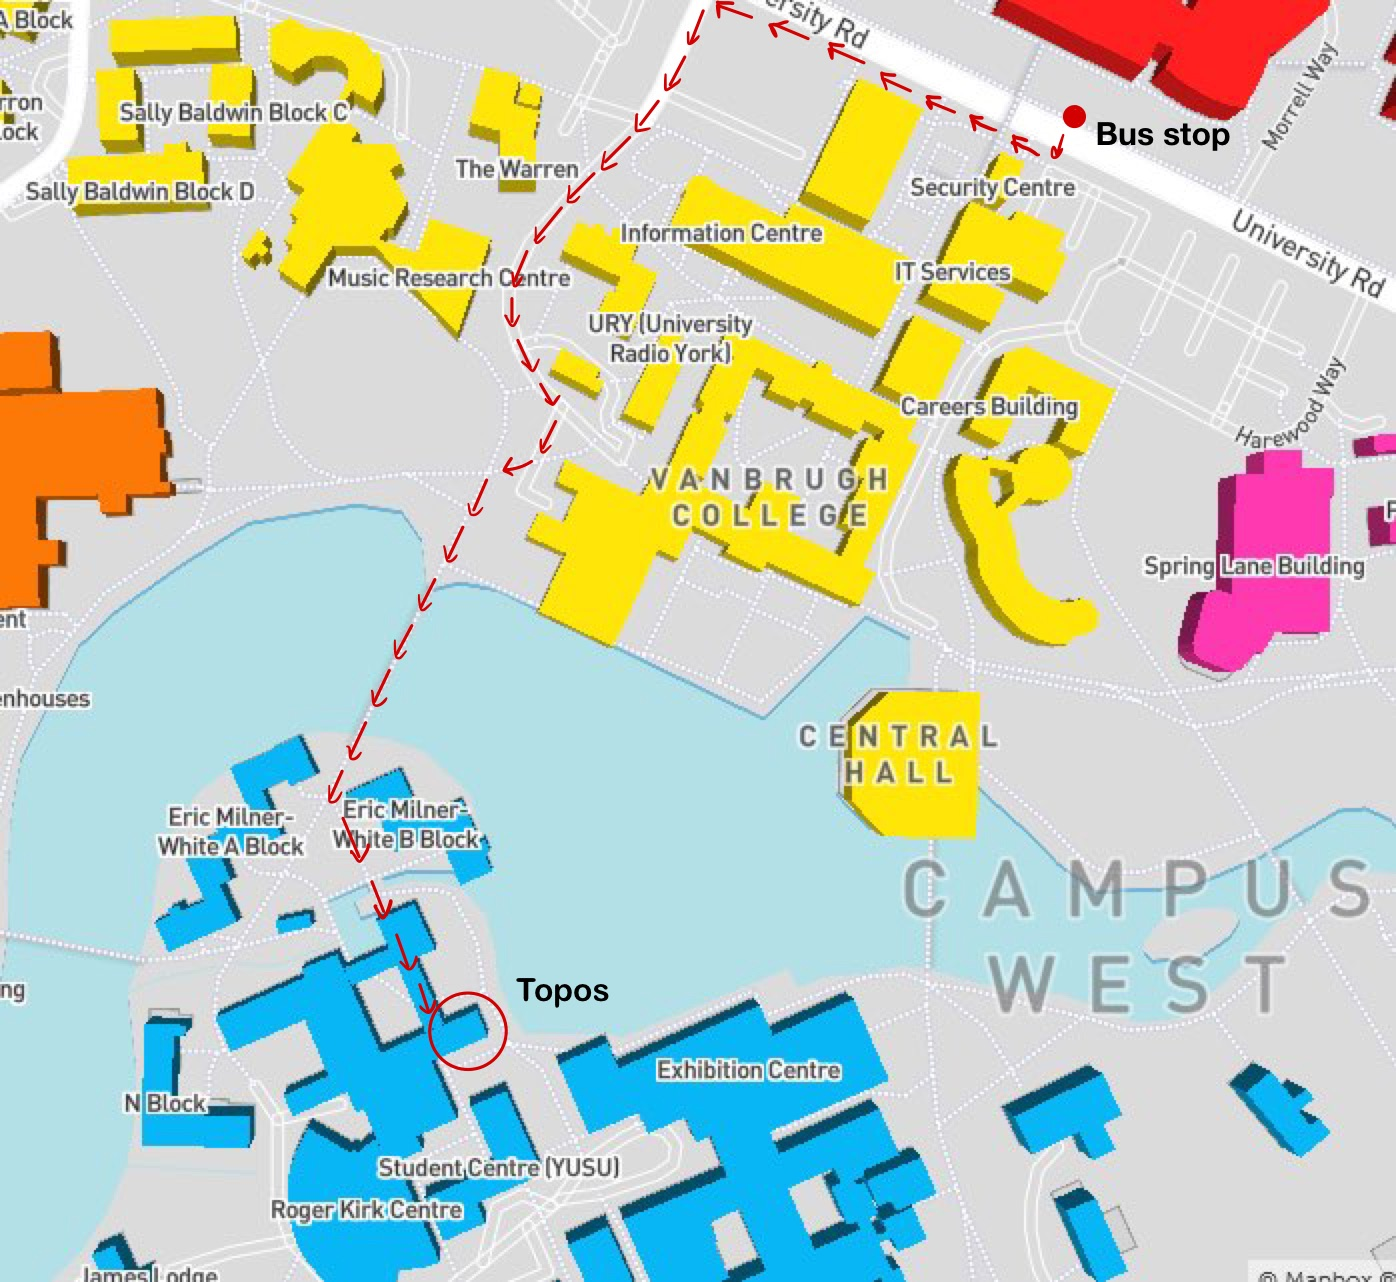
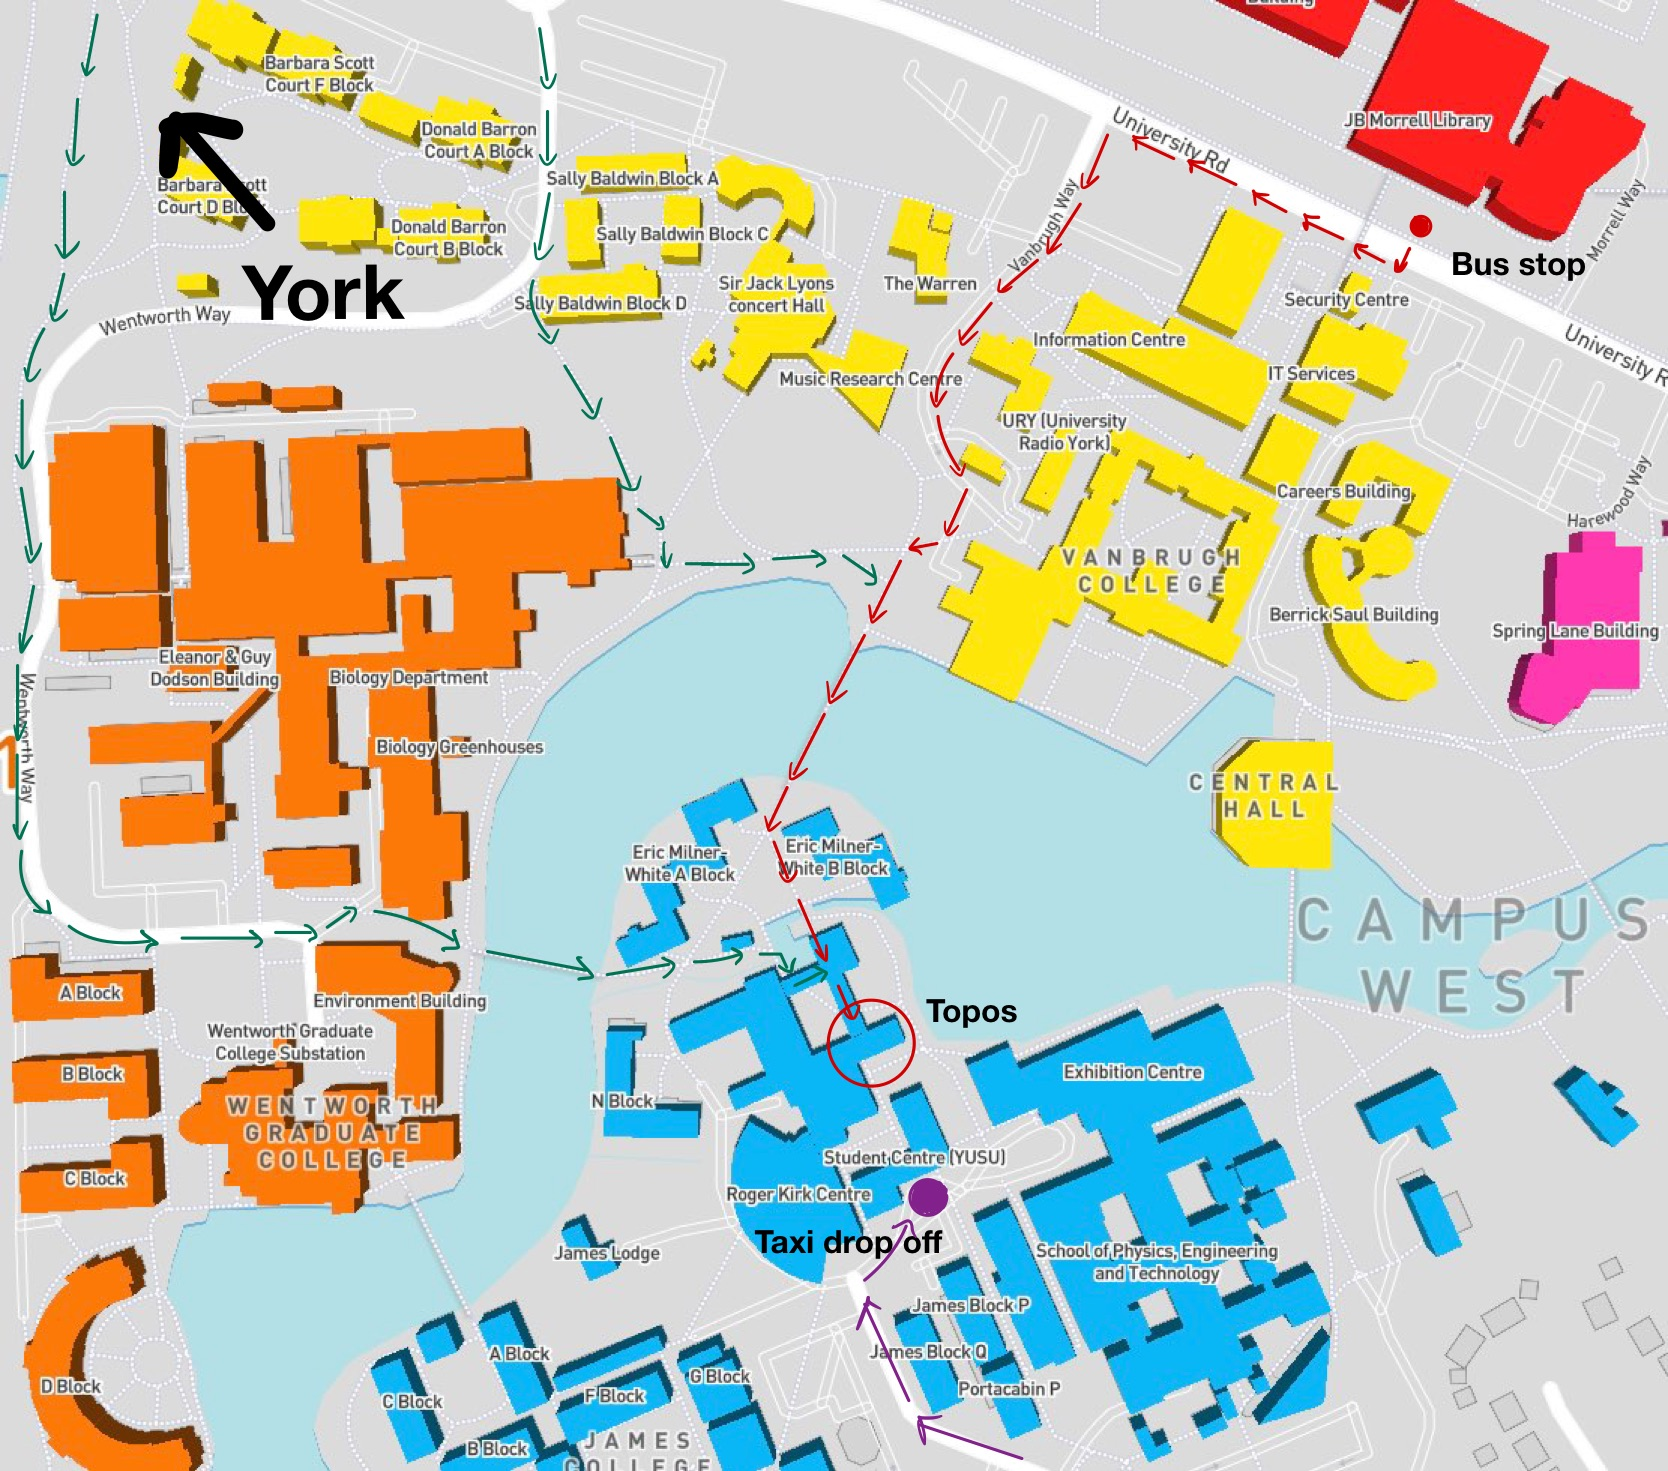
Update directions with better map

diff --git a/seminar/Directions.html b/seminar/Directions.html
@@ -24,27 +24,29 @@
 
 <br />
 
-<img src='Campus_Map.jpg' width="600" height="500" style='float: right;'/>
+<img src='Campus_Map.jpg' width="700" height="540" style='float: right;'/>
 
-The maths department is in James College on the west campus. You can search for the location on the <a href="http://www.york.ac.uk/np/maps/">University campus map</a> (this includes a link to an interactive campus map).<br />
+The maths department is in James College on the west campus. The main meeting point (also the seminar room) is the "Topos" marked on the map to the right.<br />
 
-The university (about 1 mile SE) and rail station (about 0.5 miles NW) are on opposite sides of the city centre.<br />
+<br />
+
+You can also search for the location on the <a href="http://www.york.ac.uk/np/maps/">University campus map</a> (this includes a link to an interactive campus map).<br />
 
 <br />
 
 <b>Bus.</b><br />
 Exit the station and catch bus #66 or #67. These buses come approximately every 10 minutes, take 17 minutes to reach the campus, and cost approximately &pound;2 for a one-way ticket (pay the driver). Exact change is not necessary, and you can use your credit card. <br />
-Once the bus reaches campus, the best stop is the "University Library" stop near the first footbridge across the road. Then cross the road, walk downhill, and cross the lake following the arrows on the map.<br />
+Once the bus reaches campus, the best stop is the "University Library" stop near the first footbridge across the road. Then cross the road, walk downhill, and cross the lake following the red arrows on the map.<br />
 
 <br />
 
 <b>Taxi.</b><br />
-There is a taxi rank at the station. A taxi should cost about &pound;10 and take 10-15 minutes.<br />
+There is a taxi rank at the station. A taxi should cost about &pound;10 and take 10-15 minutes. If you ask for James College then the driver will take you to the taxi drop off point marked on the map.<br />
 
 <br />
 
 <b>Walking.</b><br />
-Walking to campus through the city centre takes about 40 minutes from the rail station.<br />
+Walking to campus through the city centre takes about 40 minutes from the rail station. Once you reach campus then follow the arrows to reach the maths department.<br />
 
 <br /> 
 
@@ -52,7 +54,7 @@ Walking to campus through the city centre takes about 40 minutes from the rail s
 
 <br />
 
-<p align="right" style="clear: both;"><font color="blue">Last updated 8 November, 2023</font><br /><br />
+<p align="right" style="clear: both;"><font color="blue">Last updated 13 November, 2023</font><br /><br />
 
 <a href="http://www.mathjax.org">
   <img title="Powered by MathJax"
